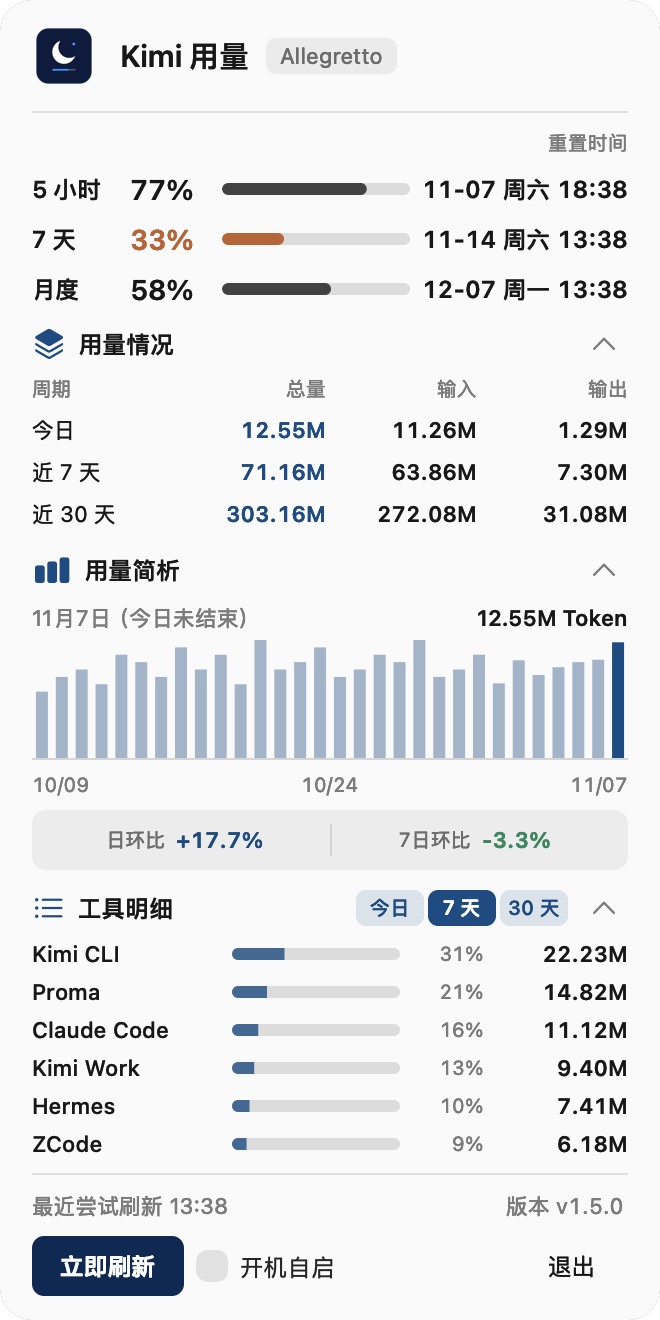
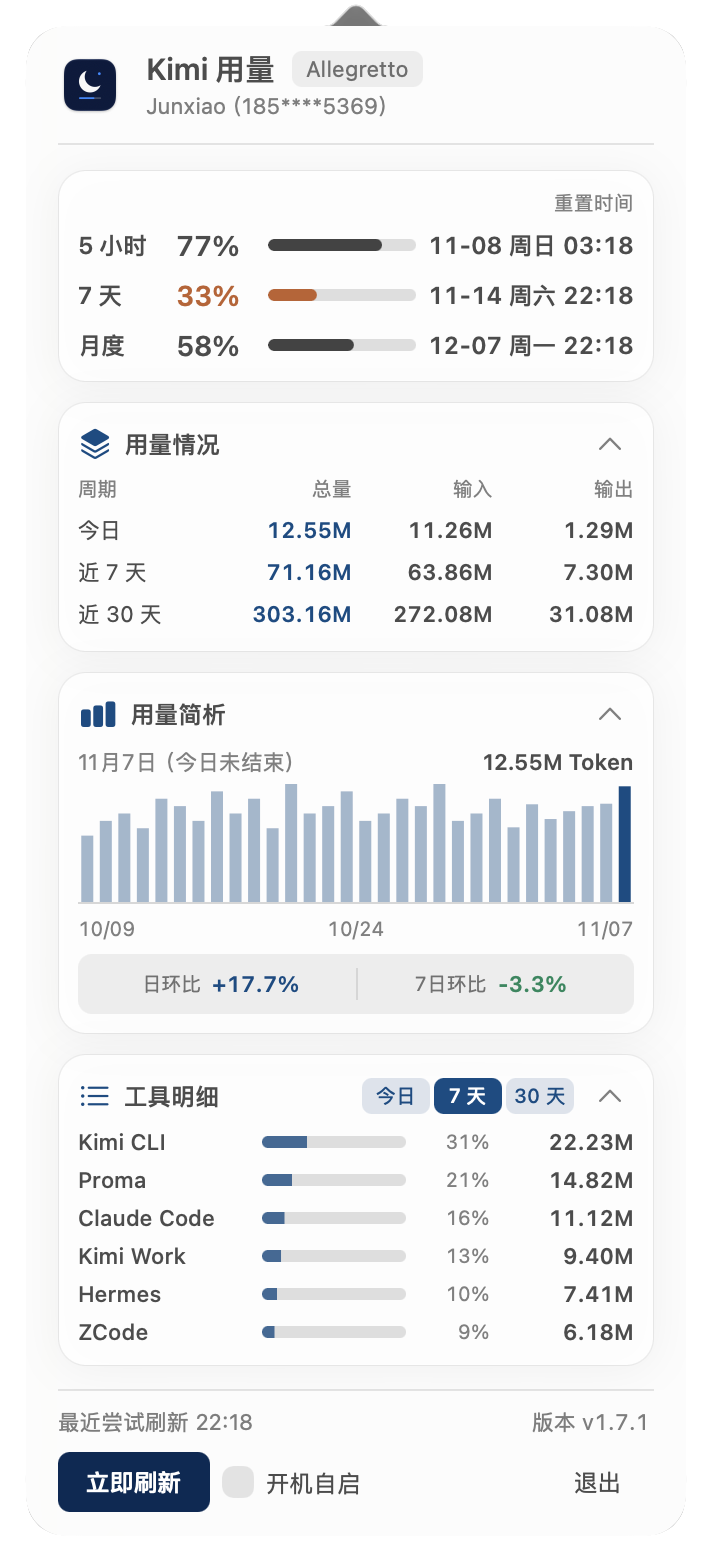
feat(panel): 重构面板为分层卡片
将额度、用量情况、用量简析和工具明细重组为四张独立卡片，统一明暗外观、圆角和间距；缩短工具占比条以保持完整工具名称。

更新开发文档、README 与原生演示截图；健康预览改用当前时间，避免演示数据误报过期。构建、自检、28 项脚本回归、面板交互、Popover 动态高度和键盘测试均通过。

diff --git a/KimiUsage.swift b/KimiUsage.swift
@@ -2055,21 +2055,37 @@ final class PanelActionButton: NSButton {
 }
 
 class PanelCardView: NSView {
+    // Kimi 的四列用量表比 GLM 更占横向空间，采用比 GLM 14pt 更紧凑的内边距。
+    static let contentInset: CGFloat = 10
+    static let verticalInset: CGFloat = 10
+
     let contentStack = PanelUI.stack(spacing: 4)
 
-    init(padding: CGFloat = 12) {
+    init(padding: CGFloat? = nil) {
         super.init(frame: .zero)
         translatesAutoresizingMaskIntoConstraints = false
         wantsLayer = true
-        layer?.cornerRadius = 12
+        layer?.cornerRadius = 14
         layer?.borderWidth = 0.5
+        // 阴影绘制在卡片自身 layer 上，不能随圆角背景一起裁掉。
+        layer?.masksToBounds = false
+        layer?.shadowColor = NSColor.black.cgColor
+        layer?.shadowRadius = 11
+        layer?.shadowOffset = CGSize(width: 0, height: -2)
+        let horizontalPadding = padding ?? Self.contentInset
+        let verticalPadding = padding ?? Self.verticalInset
         addSubview(contentStack)
         NSLayoutConstraint.activate([
-            contentStack.topAnchor.constraint(equalTo: topAnchor, constant: padding),
-            contentStack.leadingAnchor.constraint(equalTo: leadingAnchor, constant: padding),
-            contentStack.trailingAnchor.constraint(equalTo: trailingAnchor, constant: -padding),
-            contentStack.bottomAnchor.constraint(equalTo: bottomAnchor, constant: -padding)
+            contentStack.topAnchor.constraint(equalTo: topAnchor, constant: verticalPadding),
+            contentStack.leadingAnchor.constraint(equalTo: leadingAnchor, constant: horizontalPadding),
+            contentStack.trailingAnchor.constraint(equalTo: trailingAnchor, constant: -horizontalPadding),
+            contentStack.bottomAnchor.constraint(equalTo: bottomAnchor, constant: -verticalPadding)
         ])
+    }
+
+    convenience init(containing view: NSView, padding: CGFloat? = nil) {
+        self.init(padding: padding)
+        PanelUI.addFullWidth(view, to: contentStack)
     }
 
     required init?(coder: NSCoder) { fatalError("init(coder:) has not been implemented") }
@@ -2077,8 +2093,12 @@ class PanelCardView: NSView {
     override var wantsUpdateLayer: Bool { true }
     override func updateLayer() {
         effectiveAppearance.performAsCurrentDrawingAppearance {
-            layer?.backgroundColor = NSColor.labelColor.withAlphaComponent(0.035).cgColor
-            layer?.borderColor = NSColor.labelColor.withAlphaComponent(0.09).cgColor
+            let dark = effectiveAppearance.bestMatch(from: [.darkAqua, .aqua]) == .darkAqua
+            layer?.backgroundColor = (dark
+                ? NSColor.labelColor.withAlphaComponent(0.055)
+                : NSColor.controlBackgroundColor.withAlphaComponent(0.82)).cgColor
+            layer?.borderColor = NSColor.labelColor.withAlphaComponent(dark ? 0.14 : 0.09).cgColor
+            layer?.shadowOpacity = dark ? 0.03 : 0.06
         }
     }
     override func viewDidChangeEffectiveAppearance() {
@@ -2238,6 +2258,24 @@ final class QuotaWindowView: NSView {
     required init?(coder: NSCoder) { fatalError("init(coder:) has not been implemented") }
 }
 
+/// 三个额度窗口与各自异常状态组成一张完整卡片；单行布局、文案和语义色保持原样。
+final class QuotaSectionView: PanelCardView {
+    init(quotas: [UsagePanelModel.Quota], compact: Bool) {
+        super.init()
+        contentStack.spacing = 6
+        let heading = PanelUI.label("重置时间", size: 10, color: .secondaryLabelColor, wrapping: false)
+        heading.alignment = .right
+        PanelUI.addFullWidth(heading, to: contentStack)
+        for (index, quota) in quotas.enumerated() {
+            let view = QuotaWindowView(model: quota, compact: compact)
+            PanelUI.addFullWidth(view, to: contentStack)
+            if index < quotas.count - 1 { contentStack.setCustomSpacing(8, after: view) }
+        }
+    }
+
+    required init?(coder: NSCoder) { fatalError("init(coder:) has not been implemented") }
+}
+
 final class ResetCardSectionView: PanelCardView {
     init(model: UsagePanelModel.ResetSection) {
         super.init(padding: 8)
@@ -2323,7 +2361,7 @@ final class UsagePanelController: NSObject, NSPopoverDelegate {
     private func configureContent() {
         let container = contentController.view
         container.wantsLayer = true
-        container.layer?.cornerRadius = 16
+        container.layer?.cornerRadius = 20
         container.layer?.masksToBounds = true
 
         effect.frame = container.bounds
@@ -2332,14 +2370,14 @@ final class UsagePanelController: NSObject, NSPopoverDelegate {
         effect.blendingMode = .behindWindow
         effect.state = .active
         effect.wantsLayer = true
-        effect.layer?.cornerRadius = 16
+        effect.layer?.cornerRadius = 20
         effect.layer?.masksToBounds = true
         container.addSubview(effect)
 
         solid.frame = container.bounds
         solid.autoresizingMask = [.width, .height]
         solid.wantsLayer = true
-        solid.layer?.cornerRadius = 16
+        solid.layer?.cornerRadius = 20
         solid.layer?.masksToBounds = true
         container.addSubview(solid)
 
@@ -2372,7 +2410,9 @@ final class UsagePanelController: NSObject, NSPopoverDelegate {
         ])
 
         stack.alignment = .centerX
-        stack.edgeInsets = NSEdgeInsets(top: 8, left: 16, bottom: 8, right: 16)
+        stack.spacing = 10
+        // 顶部与底部为卡片阴影预留绘制空间；滚动视图只裁主容器边缘。
+        stack.edgeInsets = NSEdgeInsets(top: 12, left: 16, bottom: 12, right: 16)
         scrollView.documentView = stack
         NSLayoutConstraint.activate([
             stack.topAnchor.constraint(equalTo: scrollView.contentView.topAnchor),
@@ -2443,24 +2483,26 @@ final class UsagePanelController: NSObject, NSPopoverDelegate {
             button.heightAnchor.constraint(equalToConstant: 30).isActive = true
             addContentRow(button)
         }
-        let quotaHeading = PanelUI.label("重置时间", size: 10, color: .secondaryLabelColor, wrapping: false)
-        quotaHeading.alignment = .right
-        addContentRow(quotaHeading)
-        for quota in model.quotas { addContentRow(QuotaWindowView(model: quota, compact: panelWidth < 400)) }
+        addContentRow(QuotaSectionView(quotas: model.quotas, compact: panelWidth < 400))
         if let reset = model.resetCards {
             addContentRow(ResetCardSectionView(model: reset))
         }
         if let tibo = model.tibo {
             addContentRow(makeTiboSection(tibo))
         }
-        addContentRow(TokenSectionView(model: model.usage, expanded: usageExpanded,
+        let usageView = TokenSectionView(model: model.usage, expanded: usageExpanded,
             expandedBuckets: expandedUsageBuckets, target: self, action: #selector(toggleUsage),
-            bucketAction: #selector(toggleUsageBucket(_:))))
-        addContentRow(DailyBriefSectionView(model: model.brief, expanded: briefExpanded,
+            bucketAction: #selector(toggleUsageBucket(_:)))
+        addContentRow(PanelCardView(containing: usageView))
+
+        let briefView = DailyBriefSectionView(model: model.brief, expanded: briefExpanded,
             selectedIndex: briefSelectedIndex, target: self, action: #selector(toggleBrief),
-            onSelect: { [weak self] index in self?.briefSelectedIndex = index }))
-        addContentRow(ToolBreakdownView(model: model.tools, periodIndex: toolPeriodIndex, expanded: toolsExpanded,
-            target: self, periodAction: #selector(toggleToolPeriod(_:)), toggleAction: #selector(toggleTools)))
+            onSelect: { [weak self] index in self?.briefSelectedIndex = index })
+        addContentRow(PanelCardView(containing: briefView))
+
+        let toolsView = ToolBreakdownView(model: model.tools, periodIndex: toolPeriodIndex, expanded: toolsExpanded,
+            target: self, periodAction: #selector(toggleToolPeriod(_:)), toggleAction: #selector(toggleTools))
+        addContentRow(PanelCardView(containing: toolsView))
         for notice in PanelUI.notices(model.notices) { addContentRow(notice) }
         stack.needsLayout = true
     }
@@ -3394,7 +3436,7 @@ private final class ShareBarView: NSView {
         layer?.masksToBounds = true
         layer?.addSublayer(fill)
         heightAnchor.constraint(equalToConstant: 6).isActive = true
-        widthAnchor.constraint(equalToConstant: 84).isActive = true
+        widthAnchor.constraint(equalToConstant: 72).isActive = true
     }
     required init?(coder: NSCoder) { fatalError("init(coder:) has not been implemented") }
 
@@ -3418,7 +3460,8 @@ private final class ShareBarView: NSView {
     }
 }
 
-/// 工具行：名称 + 占比条 + 总量；固定列宽保证跨行对齐（占比条 84 ｜ % 34 ｜ 总量 64）。
+/// 工具行：名称 + 占比条 + 总量；固定列宽保证跨行对齐（占比条 72 ｜ % 34 ｜ 总量 64）。
+/// 卡片内宽比旧面板少 20pt，占比条让出 12pt，避免默认宽度下 Claude Code 被截断。
 /// 状态/输入/输出/占比入悬停与 VoiceOver（v0.4 规格）。
 private final class ToolRowView: NSView {
     init(row: UsagePanelModel.ToolRow) {
@@ -4060,7 +4103,8 @@ final class AppDelegate: NSObject, NSApplicationDelegate {
             panelController.previewAppearance = NSAppearance(named: .darkAqua)
         }
         if args.contains("--visual-preview-narrow") { panelController.previewWidth = 300 }
-        let now = Date(timeIntervalSince1970: 1_793_702_400)
+        // 健康预览使用当前时间，避免固定历史时间被现有过期规则标成 stale；异常分支仍由 states 显式注入。
+        let now = Date()
         lastAttemptAt = now
         lastFiveHourSuccessAt = now; lastSevenDaySuccessAt = now; lastMonthSuccessAt = now
         workTokensLastSuccessAt = now; cliTokensLastSuccessAt = now
@@ -4091,8 +4135,8 @@ final class AppDelegate: NSObject, NSApplicationDelegate {
                                          1.3, 1.5, 1.1, 1.2, 1.4, 1.3, 1.6, 1.1, 1.2, 1.4, 1.1, 1.6, 1.0,
                                          1.35, 1.4, 1.4, 1.55]
             let apiPattern: [Double] = [7, 9, 8, 8.5, 9, 9.26, 11]
-            // 日序列锚定真实今天：图表与比较条演示健康分支；额度冻结区仍锚定固定预览时间
-            let chartNow = Date()
+            // 日序列与额度共用当前时间：图表、比较条和健康状态使用同一预览快照。
+            let chartNow = now
             func previewWorkDays() -> TokenAggregator.ModelDays {
                 var days: TokenAggregator.ModelDays = [:]
                 for (index, value) in workPattern.enumerated() {

diff --git a/docs/DEVELOPMENT.md b/docs/DEVELOPMENT.md
@@ -1,7 +1,7 @@
 # KimiUsage 开发与维护
 
 > **当前工程事实源**。构建、测试、发布或权限行为变化时，应在同一个提交中更新本文。
-> 最后核对：2026-11-06。
+> 最后核对：2026-11-07。
 
 ## 文档入口与效力
 
@@ -31,6 +31,7 @@
 - **月度接口 401**：读取最新 refresh token；写回前重新读取最新 JSON，仅合并 Kimi Web 认证字段，以唯一临时文件和同目录原子替换保存，并限制为仅所有者可读写。若检测到 Kimi 客户端已轮换 access/refresh token，则保留客户端版本。由于官方客户端不使用共享文件锁，检查与替换之间仍无法完全消除并发写入窗口
 - **配额**：通过 Kimi 远程接口查询 5 小时、7 天和月度额度
 - **头部账号行**：`GET https://www.kimi.com/api/user`（Kimi Web 认证）取昵称与手机号；手机号由服务端打码返回，客户端原样展示。Kimi 账号可能为手机号/微信注册，无 email 字段，账号行显示「昵称（打码手机号）」，两者皆缺时隐藏。随月度接口同在慢轮刷新，401 走相同的 refresh→重试链，失败保留旧值
+- **面板卡片布局**：固定头部与底部操作区，中间滚动区按额度、用量情况、用量简析、工具明细分为四张卡片；卡片只重组现有视图，不改变数据快照、默认展开状态或更新链路。面板宽 330pt（窄预览 300pt），卡片圆角 14pt、内容边距 10pt，浅色以中性表面和轻阴影分层，深色以表面色差和描边为主。工具占比条固定 72pt，为完整工具名称保留空间；展开、收起和异步刷新仍实时调整 Popover 高度，超过屏幕可用高度 85% 后内部滚动。
 - **Token**：扫描本地会话 wire.jsonl / 客户端 JSONL 日志，并只读查询 ZCode、Hermes 的 sqlite 用量表聚合。ZCode 以 `model_usage` 逐请求表为唯一来源；输入包含缓存读取/创建，不重复加 cache 字段。近 7 天和近 30 天均包含今天。混接客户端缺失模型名时不归属 Kimi；可信 Kimi Code 旧格式可兼容并归入「未知模型」。ZCode 暂时不可读时保留最近成功快照并提示，其他来源继续更新。Work 优先按请求 ID，或同一 agent 的 `llm.request` 与 `turnStep` 关联模型和双写用量；同一请求内用量一致且两侧各一条的 `usage.record` / `step.end` 只计一次，不受工具执行耗时限制。没有请求上下文的旧日志仍只匹配时间和位置邻近的事件。保留独有历史调用和压缩用量，跳过子任务完成汇总；只有缺少可靠模型依据的用量才进入「未知模型」。
 - **模型明细**：`scan-state-v6.json` 按「日 × 模型」保存文件贡献，ZCode 与 Hermes 同步保留模型维度；周期汇总和展开行从同一数据源计算，模型输入、输出之和等于汇总。Work 扫描修订 v4 会重建旧文件贡献，保留 sqlite 增量快照；文件追加后重扫 Work 请求上下文，未变化文件直接复用缓存。用量情况板块的周期整行控制展开与收起，模型明细行与表头四列对齐，数字列与汇总行共用等宽布局。
 - **用量情况（v1.5 合并板块）**：「用量情况」合并展示本机全部已适配来源（Kimi Work 与 API 客户端）的今日/近 7 天/近 30 天用量。合并口径：本机 Kimi 模型统计，可能包含 API、不同账号或订阅归属未确认的记录，不代表订阅账单；面板不设统计范围入口，口径以本文为准。既有去重（Work 镜像、Proma 并行日志、ZCode 唯一 model_usage 来源）在聚合前生效。

diff --git a/README.md b/README.md
@@ -13,6 +13,7 @@
 ## 能做什么
 
 - **额度与重置时间**：菜单栏显示 5 小时和 7 天剩余额度，点开查看月度额度及各周期重置时间；面板头部展示当前登录账号（昵称与打码手机号，CodexUsage 头部同款布局）。
+- **分层卡片面板**：额度、周期用量、每日趋势和工具明细独立分组，支持明暗外观；固定头部与操作区，内容超高时在面板内滚动。
 - **周期用量总览**：查看今天、近 7 天和近 30 天的 Token 总量、输入与输出；点击周期行可展开模型明细，刷新后保留展开状态。
 - **每日趋势与对比**：近 30 天柱状图支持按日查看，并提供日环比、7 日环比；数据不足时明确提示，不猜测缺失用量。
 - **工具明细**：按周期查看 Kimi Work、Kimi CLI、Proma、Claude Code、ZCode、Hermes 的用量、占比和读取状态。
